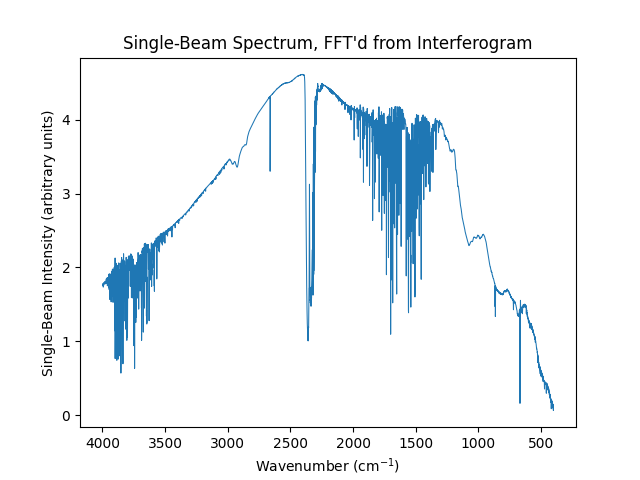
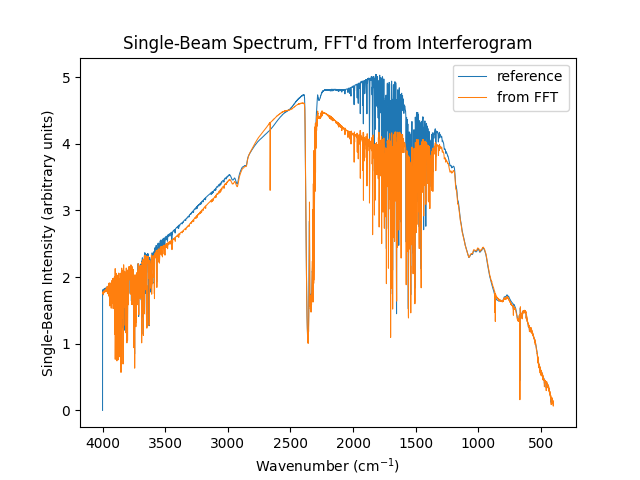
overlaid all FFT plots for 2022-01-25 data

diff --git a/src/fourier.py b/src/fourier.py
@@ -26,19 +26,30 @@ if __name__ == "__main__":
     except OSError:
         pass
 
+    ref_spectra_path = Path.cwd() / "data" / "2022-01-25"
+    ref_spectra_files = []
+    for csv_file in ref_spectra_path.iterdir():
+        if str(csv_file.name).split("_")[5][:8] == "spectrum":
+            ref_spectra_files.append(csv_file)
+    ref_spectra_files.sort()
+
     for i in range(len(sample_ifgs_220125)):
+    # for i in range(1):
         ifg_path = (
             Path.cwd()
             / "data"
             / "2022-01-25"
             / sample_ifgs_220125[i]
         )
+        ref_x, ref_y = spectra.read_data(ref_spectra_files[i])
         data_points, voltage = spectra.read_data(ifg_path)
         fig_name = "_".join(sample_ifgs_220125[i].split("_")[:5]) + "_fft_spectrum.png"
         wavenumbers, intensity = spectra.fourier_transform(
             data_points,
             voltage,
             0.241,
+            ref_spectrum_x = ref_x,
+            ref_spectrum_y = 0.9 * ref_y,
             plot = True,
             save_fig = True,
             path_save = output_path / fig_name,
